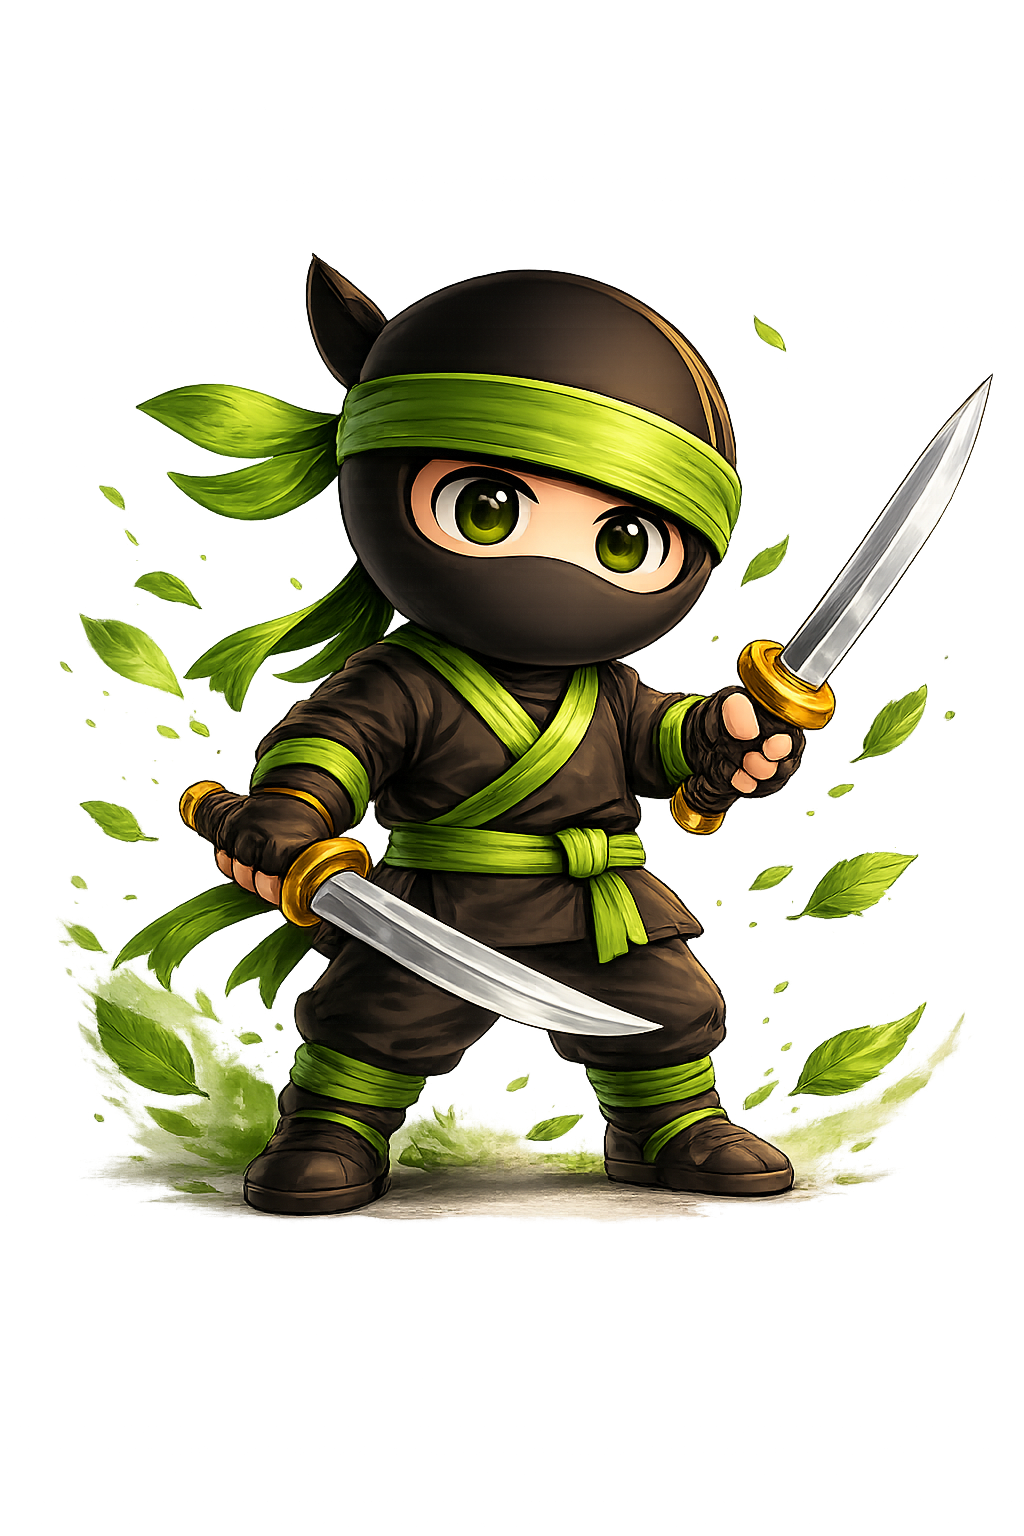
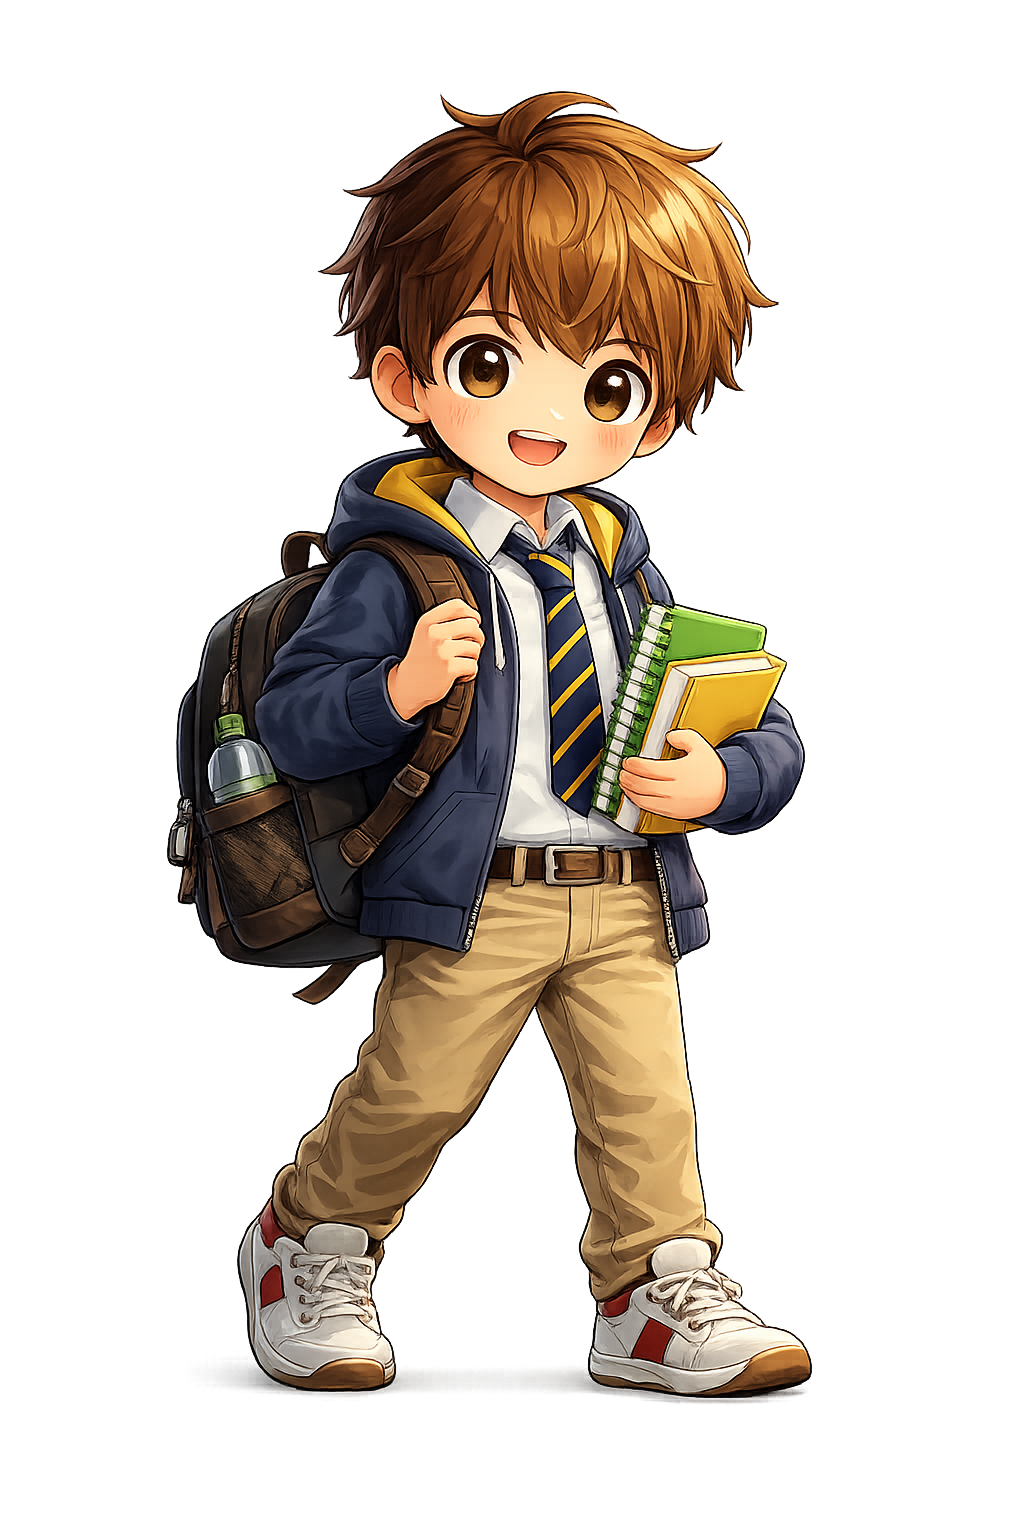
Creating the web

diff --git a/mathmate-ai/src/app/(app)/dashboard/page.tsx b/mathmate-ai/src/app/(app)/dashboard/page.tsx
@@ -65,7 +65,7 @@ export default async function DashboardPage() {
   const hour = new Date().getHours()
   const greeting = hour < 12 ? 'শুভ সকাল' : hour < 17 ? 'শুভ অপরাহ্ন' : 'শুভ সন্ধ্যা'
 
-  const quickActions = [
+  const quickActions = [math
     { label: 'Practice', emoji: '⚡', href: '/practice', bg: '#FFF8E1', color: '#E65100' },
     { label: 'AI Tutor', emoji: '🤖', href: '/tutor',    bg: '#E3F2FD', color: '#1565C0' },
     { label: 'Progress', emoji: '📊', href: '/progress', bg: '#F3E5F5', color: '#6A1B9A' },
